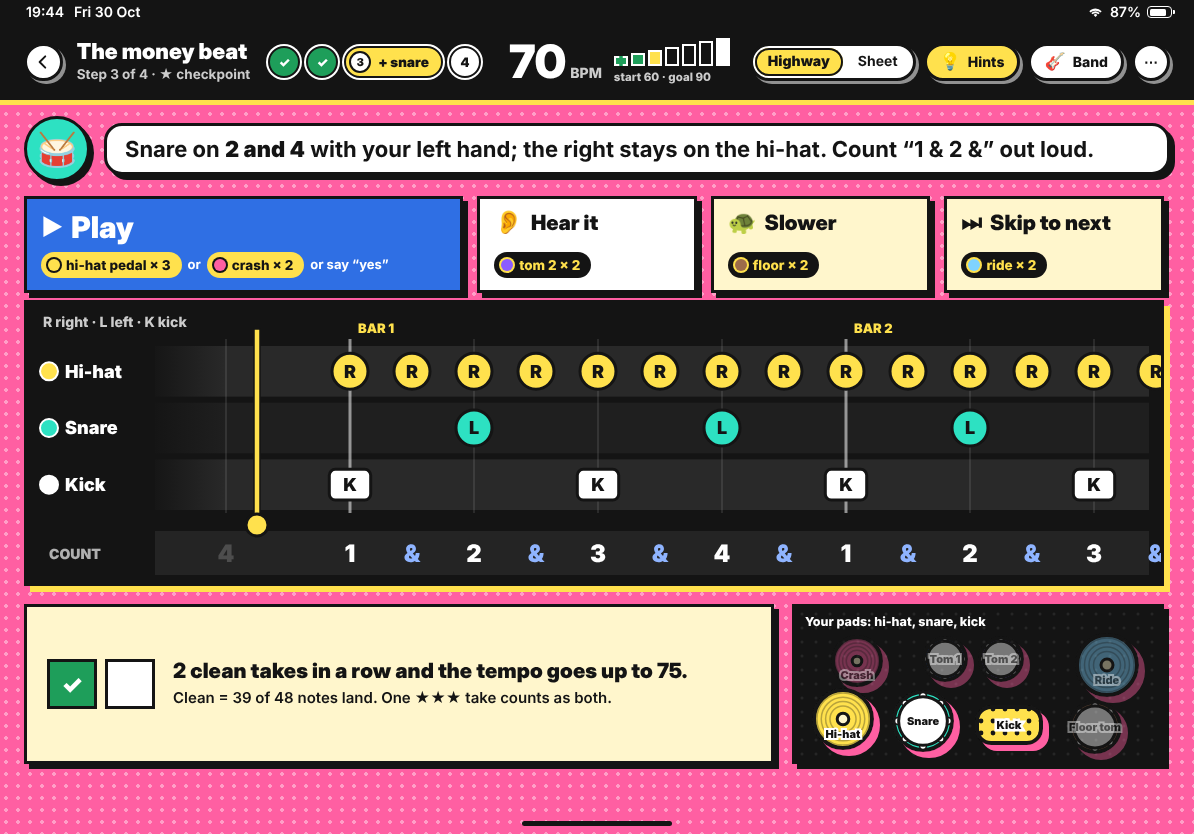
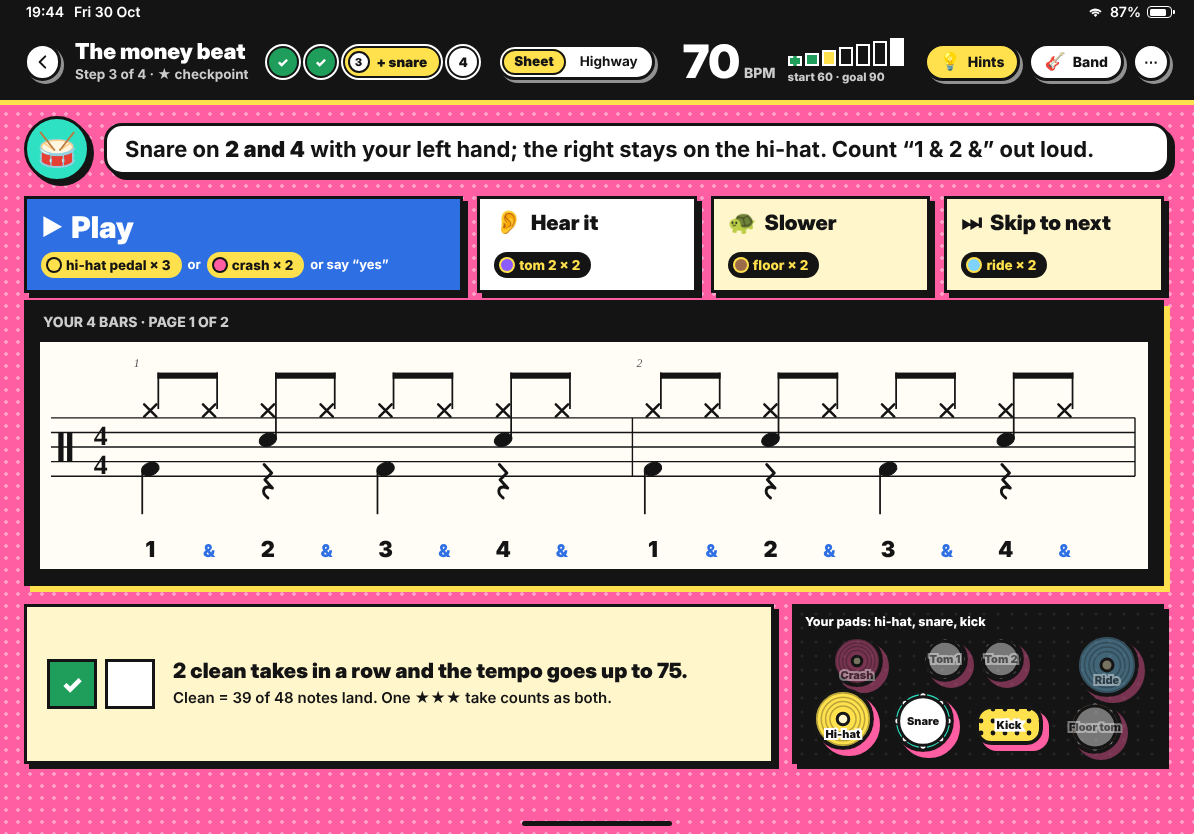
iPad mockups: sheet music in the lesson player (D8)
mock.js gets sheet(): 5-line drum notation for the money beat (hi-hat x-heads above the
staff, snare in the 3rd space, kick in the bottom space, beams per beat, the count under
it, a cursor and results stickers). Sheet | Highway in every lesson header, Sheet by
default: lesson-ready and lesson-countin show the sheet; new frames lesson-take-sheet and
lesson-results-sheet.

Claude-Session: https://claude.ai/code/session_012qCzBwXtPvMyyk6zKAziwn

Changed region(s): [[0.031, 0.3741, 0.9916, 0.6859], [0.031, 0.0312, 0.7747, 0.1247]]

diff --git a/docs/mockups/ipad/mock.js b/docs/mockups/ipad/mock.js
@@ -151,5 +151,91 @@ function fallingHighway({ W, H, pos, px, judged = {}, flash = [], lanes = ['hiha
   return s + `</svg>`;
 }
 
+/**
+ * Drum notation for the money beat on a cream page, the way the app's sheet view draws it (src/notation/SheetMusic.tsx,
+ * VexFlow): a 5-line percussion staff, hands stems up (hi-hat x-heads above the top line, snare in the 3rd space),
+ * the kick stems down in the bottom space with quarter rests, 8ths beamed per beat, the count under each beat.
+ * rows = [[firstBar, bars], ...]; judged = { 'hihat17': ['off', '+48'], 'snare14': ['miss'] } colours played notes
+ * (the rest of the notes before pos count as on it); pos = the cursor in eighths from the first note.
+ */
+function sheet({ W, rowH, gap, rows, judged = null, pos = null, extras = [], x0 = 14, ball = false, stickers = true }) {
+  const TONE = { ok: '#1E9E5A', off: '#E07B00', miss: '#E8423F' };
+  const H = rows.length * rowH + 8;
+  let s = `<svg width="${W}" height="${H}" viewBox="0 0 ${W} ${H}" font-family="${FONT}" style="display:block">`;
+  s += `<rect x="1.5" y="1.5" width="${W - 3}" height="${H - 3}" fill="#FFFDF5" stroke="${INK}" stroke-width="3"/>`;
+  rows.forEach(([first, bars], ri) => {
+    const top = ri * rowH + gap * 5.4, x1 = W - 16, head = ri === 0 ? gap * 5.4 : gap * 2.6;
+    const BW = (x1 - x0 - head) / bars, barX = b => x0 + head + (b - first) * BW;
+    const xOf = t => barX(Math.floor(t / 8)) + gap * 1.4 + (t % 8) * (BW - gap * 2.2) / 8;
+    const y = { hihat: top - gap / 2, snare: top + 1.5 * gap, kick: top + 3.5 * gap };
+    const stemUp = top - gap * 3.1, stemDown = y.kick + gap * 3.1, countY = stemDown + gap * 2.9; // a row is about 15.4 gaps tall
+    const lw = Math.max(1.4, gap * 0.09);
+    // staff, percussion clef, 4/4 on the first row, bar lines, bar numbers
+    for (let i = 0; i < 5; i++) s += `<line x1="${x0}" x2="${x1}" y1="${top + i * gap}" y2="${top + i * gap}" stroke="${INK}" stroke-width="${lw}"/>`;
+    s += `<rect x="${x0 + gap * .5}" y="${top + gap}" width="${gap * .36}" height="${gap * 2}" fill="${INK}"/><rect x="${x0 + gap * 1.1}" y="${top + gap}" width="${gap * .36}" height="${gap * 2}" fill="${INK}"/>`;
+    if (ri === 0) for (const k of [2, 4]) s += `<text x="${x0 + gap * 3.4}" y="${top + k * gap - gap * .12}" text-anchor="middle" font-family="Georgia,serif" font-weight="900" font-size="${gap * 1.9}" fill="${INK}">4</text>`;
+    for (let b = first; b < first + bars; b++) {
+      const end = barX(b + 1), last = b === 3;
+      s += `<line x1="${end - (last ? gap * .25 : 0)}" x2="${end - (last ? gap * .25 : 0)}" y1="${top}" y2="${top + 4 * gap}" stroke="${INK}" stroke-width="${last ? gap * .4 : lw}"/>`;
+      if (last) s += `<line x1="${end - gap * .75}" x2="${end - gap * .75}" y1="${top}" y2="${top + 4 * gap}" stroke="${INK}" stroke-width="${lw}"/>`;
+      s += `<text x="${barX(b) + 4}" y="${top - gap * 3.5}" font-family="Georgia,serif" font-style="italic" font-size="${gap * .8}" fill="#555">${b + 1}</text>`;
+    }
+    // the cursor goes under the notes
+    if (pos !== null && pos >= first * 8 && pos < (first + bars) * 8) s += `<rect x="${xOf(pos) - gap * 1.2}" y="${stemUp - gap * .6}" width="${gap * 2.4}" height="${countY - stemUp + gap * .9}" rx="${gap * .4}" fill="#2DE1C255"/>`;
+    const tone = (lane, t) => {
+      if (!judged || (pos !== null && t > pos + .01)) return null;
+      const m = judged[lane + t];
+      return m ? m : ['ok'];
+    };
+    const headSvg = (lane, x, t) => {
+      const m = tone(lane, t), c = m ? TONE[m[0]] : INK, miss = m && m[0] === 'miss', yy = y[lane];
+      if (lane === 'hihat') { const r = gap * .42; return `<path d="M${x - r} ${yy - r}L${x + r} ${yy + r}M${x - r} ${yy + r}L${x + r} ${yy - r}" stroke="${c}" stroke-width="${gap * .17}" stroke-linecap="round"${miss ? ' stroke-dasharray="3 2"' : ''}/>`; }
+      return `<ellipse cx="${x}" cy="${yy}" rx="${gap * .62}" ry="${gap * .44}" transform="rotate(-20 ${x} ${yy})" fill="${miss ? '#FFFDF5' : c}" stroke="${c}" stroke-width="${miss ? 2.5 : 1}"${miss ? ' stroke-dasharray="3 2"' : ''}/>`;
+    };
+    const sticker = (x, yy, m) => {
+      const txt = m[0] === 'miss' ? 'MISS!' : m[1], w = txt.length * gap * .62 + gap * .8;
+      return `<g transform="rotate(-6 ${x} ${yy})"><rect x="${x - w / 2}" y="${yy - gap * .62}" width="${w}" height="${gap * 1.24}" fill="${TONE[m[0]]}" stroke="${INK}" stroke-width="2"/><text x="${x}" y="${yy + gap * .32}" text-anchor="middle" font-size="${gap * .82}" font-weight="900" fill="#fff">${txt}</text></g>`;
+    };
+    for (let b = first; b < first + bars; b++) {
+      // hands: hi-hat on every 8th, snare on 2 and 4; stems up, beamed in pairs (one beam per beat)
+      for (let e = 0; e < 8; e++) {
+        const t = b * 8 + e, x = xOf(t), sx = x + gap * .55, low = e === 2 || e === 6 ? y.snare : y.hihat;
+        s += `<line x1="${sx}" x2="${sx}" y1="${low - gap * .1}" y2="${stemUp}" stroke="${INK}" stroke-width="${gap * .12}"/>`;
+        s += headSvg('hihat', x, t);
+        if (e === 2 || e === 6) s += headSvg('snare', x, t);
+        if (e % 2 === 0) s += `<rect x="${sx - gap * .06}" y="${stemUp}" width="${xOf(t + 1) - x + gap * .12}" height="${gap * .42}" fill="${INK}"/>`;
+      }
+      // feet: kick on 1 and 3 (quarter notes, stems down), quarter rests on 2 and 4
+      for (const e of [0, 2, 4, 6]) {
+        const t = b * 8 + e, x = xOf(t);
+        if (e === 0 || e === 4) {
+          s += `<line x1="${x - gap * .55}" x2="${x - gap * .55}" y1="${y.kick + gap * .1}" y2="${stemDown}" stroke="${INK}" stroke-width="${gap * .12}"/>` + headSvg('kick', x, t);
+        } else {
+          const ry = top + 3.2 * gap, k = gap * .26;
+          s += `<path d="M${x - k} ${ry}l${2 * k} ${2.2 * k}l${-1.8 * k} ${1.8 * k}l${2 * k} ${2.2 * k}c${-2.4 * k} ${-1 * k} ${-3.2 * k} ${1 * k} ${-1.2 * k} ${2.6 * k}" fill="none" stroke="${INK}" stroke-width="${gap * .2}" stroke-linejoin="round" stroke-linecap="round"/>`;
+        }
+      }
+      // results stickers: hands above the beams, the kick below its stem
+      if (stickers) for (const lane of ['hihat', 'snare', 'kick']) for (let e = 0; e < 8; e++) {
+        const t = b * 8 + e, m = tone(lane, t);
+        if (!m || m[0] === 'ok') continue;
+        s += sticker(xOf(t), lane === 'kick' ? stemDown + gap * .7 : stemUp - gap * 1.2, m);
+      }
+      // the count: numbers you hit and say, "&"s in blue
+      for (let e = 0; e < 8; e++) {
+        const t = b * 8 + e, num = e % 2 === 0, cur = pos !== null && Math.abs(t - pos) < .01;
+        if (cur) s += `<circle cx="${xOf(t)}" cy="${countY - gap * .55}" r="${gap * 1.05}" fill="${POP}" stroke="${INK}" stroke-width="2.5"/>`;
+        s += `<text x="${xOf(t)}" y="${countY}" text-anchor="middle" font-size="${num ? gap * 1.5 : gap * 1.2}" font-weight="900" fill="${num ? INK : '#2F6FE4'}" opacity="${pos !== null && t < pos - .01 ? .4 : 1}">${num ? e / 2 + 1 : '&amp;'}</text>`;
+      }
+    }
+    for (const ex of extras) if (ex.t >= first * 8 && ex.t < (first + bars) * 8) {
+      const ex0 = xOf(Math.floor(ex.t)) + (ex.t % 1) * (BW - gap * 2.2) / 8;
+      s += `<text x="${ex0}" y="${y[ex.lane] + gap * .5}" text-anchor="middle" font-size="${gap * 1.5}" font-weight="900" fill="${TONE.miss}">✕</text>`;
+    }
+    if (ball && pos !== null && pos >= first * 8 && pos < (first + bars) * 8) s += `<circle cx="${xOf(pos)}" cy="${countY - gap * 2.3}" r="${gap * .55}" fill="${POP}" stroke="${INK}" stroke-width="2.5"/>`;
+  });
+  return s + `</svg>`;
+}
+
 // The pages call these from inline scripts.
-Object.assign(window, { kit, highway, fallingHighway });
+Object.assign(window, { kit, highway, fallingHighway, sheet });

diff --git a/docs/mockups/ipad/lesson-take.html b/docs/mockups/ipad/lesson-take.html
@@ -31,10 +31,13 @@
   .panel { position: absolute; left: 24px; right: 30px; top: 190px; height: 396px; background: var(--night); border: 3px solid var(--line); box-shadow: 6px 6px 0 var(--pop); overflow: hidden; }
   #ready:target ~ .panel { top: 300px; height: 286px; }
   .panel svg { display: block; }
+  .paper { position: absolute; left: 10px; right: 10px; top: 36px; }
+  .viewSeg { height: 36px; margin-left: 4px; }
+  .viewSeg span { font-size: 13.5px; padding: 0 12px; }
   .barNow { position: absolute; left: 16px; top: 10px; font: 800 14px var(--sf); color: #ccc; }
   .barNow b { color: #fff; font: 900 22px var(--display); }
 
-  .countBig { position: absolute; left: 618px; top: 262px; transform: translateX(-50%); z-index: 3; flex-direction: column; align-items: center; gap: 8px; }
+  .countBig { position: absolute; left: 124px; top: 268px; transform: translateX(-50%); z-index: 3; flex-direction: column; align-items: center; gap: 8px; }
   .countBig .n { width: 150px; height: 150px; border-radius: 50%; background: var(--pop); border: 4px solid var(--line); box-shadow: 6px 6px 0 var(--line); display: grid; place-items: center; font: 900 96px var(--display); }
   .countBig p { font: 900 16px var(--display); background: var(--panel); border: 3px solid var(--line); padding: 3px 12px; }
 
@@ -55,20 +58,20 @@
 </head>
 <body>
 <div class="ipad">
-  <i id="ready"></i><i id="countin"></i><i id="falling"></i>
+  <i id="ready"></i><i id="countin"></i><i id="falling"></i><i id="sheet"></i>
   <div class="status"><span>19:44</span><span class="date">Fri 30 Oct</span><span class="sp"></span><span class="ic i-wifi"></span><span>87%</span><span class="batt"><i style="width:84%"></i></span></div>
 
   <header class="top">
     <span class="btn round sm v-ready" style="width:40px"><span class="ic i-chevl"></span></span>
     <div class="title"><b>The money beat</b><span>Step 3 of 4 · ★ checkpoint</span></div>
     <div class="steps"><i class="done">✓</i><i class="done">✓</i><i class="cur"><em>3</em>+ snare</i><i>4</i></div>
+    <span class="seg viewSeg"><span data-v="sheet">Sheet</span><span data-v="highway">Highway</span></span>
     <span class="sp"></span>
     <div class="tempo">
       <div class="big num">70<small>BPM</small></div>
       <div class="ladder"><div class="rungs"><i class="start done" style="height:10px"></i><i class="done" style="height:13px"></i><i class="at" style="height:16px"></i><i style="height:19px"></i><i style="height:22px"></i><i style="height:25px"></i><i class="goal" style="height:28px"></i></div><span>start 60 · goal 90</span></div>
     </div>
     <div class="v-ready" style="gap:8px;align-items:center;margin-left:6px">
-      <span class="seg"><span class="on">Highway</span><span>Sheet</span></span>
       <span class="btn sm pop"><span class="em">💡</span>Hints</span>
       <span class="btn sm"><span class="em">🎸</span>Band</span>
       <span class="btn round sm" style="width:38px">⋯</span>
@@ -94,8 +97,7 @@
 
   <section class="panel" id="hwPanel">
     <div id="hw"></div>
-    <div class="barNow v-take"><b>Bar 3</b> of 4</div>
-    <div class="barNow v-ready">R right · L left · K kick</div>
+    <div class="barNow" id="barNow"></div>
   </section>
 
   <div class="countBig v-countin"><div class="n">3</div><p>SAY IT WITH THE CLICK</p></div>
@@ -121,7 +123,19 @@
 const mode = location.hash.slice(1) || 'take';
 const panelW = 1134, panelH = mode === 'ready' ? 280 : 390; // :target may not apply yet when this runs
 const judged = { hihat17: 'off', kick16: 'off' };
-document.getElementById('hw').innerHTML = mode === 'falling'
+// Sheet music is the default view (D8): before the take, the count-in and #sheet; the highway is the alternative.
+const onSheet = ['ready', 'countin', 'sheet'].includes(mode);
+document.querySelectorAll('.viewSeg span').forEach(el => el.classList.toggle('on', el.dataset.v === (onSheet ? 'sheet' : 'highway')));
+document.getElementById('barNow').innerHTML = { ready: 'YOUR 4 BARS · PAGE 1 OF 2', countin: 'COUNT-IN · PAGE 1 OF 2' }[mode] ?? '<b>Bar 3</b> of 4';
+if (onSheet) {
+  const sh = {
+    ready: { gap: 14.6, rows: [[0, 2]], pos: null, left: 10 },
+    countin: { gap: 21.6, rows: [[0, 2]], pos: null, left: 214 },
+    sheet: { gap: 21.6, rows: [[2, 2]], pos: 20, judged: { hihat17: ['off', '+48'], kick16: ['off', '+48'] }, ball: true, left: 10 },
+  }[mode];
+  const w = panelW - sh.left - 10, rowH = Math.round(sh.gap * 15.4);
+  document.getElementById('hw').innerHTML = `<div class="paper" style="left:${sh.left}px">${sheet({ W: w, rowH, gap: sh.gap, rows: sh.rows, pos: sh.pos, judged: sh.judged ?? null, ball: sh.ball })}</div>`;
+} else document.getElementById('hw').innerHTML = mode === 'falling'
   ? fallingHighway({ W: panelW, H: panelH, pos: 20, px: 46, judged, flash: ['hihat', 'kick'] })
   : highway({ W: panelW, H: panelH, ...{
       take: { pos: 20, px: 62, nowX: 470, judged, flash: ['hihat', 'kick'] },
@@ -130,7 +144,7 @@ document.getElementById('hw').innerHTML = mode === 'falling'
     }[mode === 'falling' ? 'take' : mode] });
 
 // The kit from the throne, in the web app's drawing style; the pads that just landed glow and pop a comic word.
-const hit = mode === 'take' || mode === 'falling';
+const hit = mode === 'take' || mode === 'falling' || mode === 'sheet';
 const mine = ['hihat', 'snare', 'kick'];
 const P = [
   [{ id: 'crash', x: 62, y: 54, r: 24 }], [{ id: 'hihat', x: 48, y: 112, r: 29 }], [{ id: 'tom1', x: 150, y: 52, r: 21 }], [{ id: 'tom2', x: 206, y: 52, r: 21 }],

diff --git a/docs/mockups/ipad/lesson-results.html b/docs/mockups/ipad/lesson-results.html
@@ -7,7 +7,9 @@
 <link rel="stylesheet" href="ipad.css">
 <script src="mock.js"></script>
 <style>
-  .tempo .up { font: 900 14px var(--display); color: var(--line); background: #4BE08A; border: 2px solid #fff; border-radius: 999px; padding: 3px 10px; }
+  .viewSeg { height: 36px; } .viewSeg span { font-size: 13.5px; padding: 0 11px; }
+  .top .ladder { display: none; } /* the next tempo says it; room for Sheet / Highway and Share take */
+  .tempo .up { white-space: nowrap; font: 900 14px var(--display); color: var(--line); background: #4BE08A; border: 2px solid #fff; border-radius: 999px; padding: 3px 10px; }
   .verdict { position: absolute; left: 24px; right: 30px; top: 116px; }
   .verdict .bubble { flex: 1; display: flex; align-items: center; gap: 14px; }
   .verdict p { font-size: 22px; }
@@ -56,13 +58,14 @@
 </head>
 <body>
 <div class="ipad">
-  <i id="share"></i>
+  <i id="share"></i><i id="sheet"></i>
   <div class="status"><span>19:45</span><span class="date">Fri 30 Oct</span><span class="sp"></span><span class="ic i-wifi"></span><span>87%</span><span class="batt"><i style="width:84%"></i></span></div>
 
   <header class="top">
     <span class="btn round sm" style="width:40px"><span class="ic i-chevl"></span></span>
     <div class="title"><b>The money beat</b><span>Step 3 of 4 · ★ checkpoint</span></div>
     <div class="steps"><i class="done">✓</i><i class="done">✓</i><i class="cur"><em>3</em>+ snare</i><i>4</i></div>
+    <span class="seg viewSeg"><span data-v="sheet">Sheet</span><span data-v="highway">Highway</span></span>
     <span class="sp"></span>
     <div class="tempo">
       <div class="big num">70<small>BPM</small></div><span class="up">→ 75 next</span>
@@ -167,8 +170,24 @@ function timing(y0, W) {
   s += `<text x="${x(-100)}" y="${cy + 40}" font-size="12" font-weight="900" fill="#4A4A4A">← EARLY</text><text x="${mid}" y="${cy + 40}" text-anchor="middle" font-size="12" font-weight="900">THE CLICK</text><text x="${x(100)}" y="${cy + 40}" text-anchor="end" font-size="12" font-weight="900" fill="#4A4A4A">LATE →</text>`;
   return s;
 }
-const W = 756;
-document.getElementById('notes').innerHTML = `<svg width="${W}" height="418" viewBox="0 0 ${W} 418" font-family='${FONT}' style="display:block">${row(0, 0, W)}${row(2, 150, W)}${timing(306, W)}</svg>`;
+/** A slimmer timing line for under the sheet. */
+function timingSlim(W, h) {
+  const offs = [12, 18, 22, 9, 31, 25, 14, 52, 19, 27, 8, 16, 21, 33, 11, 24, 15, 20, 28, 6, 17, 23, 13, 30, -62, 19, 26, -55, 14, 22, 18, 25, 10, 29, 16, 21, 12, 27, 35, 19, 24, 15, 20, 11, 26, 18, -4];
+  const mid = W / 2 + 90, sc = (W / 2 - 150) / 100, x = ms => mid + ms * sc, cy = h / 2;
+  let s = `<svg width="${W}" height="${h}" viewBox="0 0 ${W} ${h}" font-family='${FONT}' style="display:block;margin-top:6px"><rect x="1.5" y="1.5" width="${W - 3}" height="${h - 3}" fill="#FFFDF6" stroke="${INK}" stroke-width="3"/>`;
+  s += `<text x="12" y="${cy - 3}" font-size="13" font-weight="900" fill="${INK}">WHERE YOUR</text><text x="12" y="${cy + 13}" font-size="13" font-weight="900" fill="${INK}">HITS LANDED</text>`;
+  s += `<rect x="${x(-40)}" y="${cy - 17}" width="${x(40) - x(-40)}" height="34" fill="#E3F5EA" stroke="#1E9E5A" stroke-width="2"/>`;
+  s += `<line x1="${x(-100)}" x2="${x(100)}" y1="${cy}" y2="${cy}" stroke="${INK}" stroke-width="3"/><line x1="${mid}" x2="${mid}" y1="${cy - 20}" y2="${cy + 20}" stroke="${INK}" stroke-width="3"/>`;
+  offs.forEach((ms, k) => { s += `<circle cx="${x(ms)}" cy="${cy + ((k % 3) - 1) * 8}" r="5.5" fill="${Math.abs(ms) <= 40 ? '#1E9E5A' : '#FF9F1C'}" stroke="${INK}" stroke-width="1.5"/>`; });
+  s += `<text x="${x(-100) - 8}" y="${cy + 5}" text-anchor="end" font-size="11" font-weight="900" fill="#4A4A4A">EARLY</text><text x="${x(100) + 8}" y="${cy + 5}" font-size="11" font-weight="900" fill="#4A4A4A">LATE</text>`;
+  return s + `</svg>`;
+}
+const W = 756, onSheet = location.hash === '#sheet';
+document.querySelectorAll('.viewSeg span').forEach(el => el.classList.toggle('on', el.dataset.v === (onSheet ? 'sheet' : 'highway')));
+document.getElementById('notes').innerHTML = onSheet
+  // results on the sheet-music notes: the whole take, two bars a row, each note in how it went
+  ? sheet({ W, rowH: 166, gap: 10.8, rows: [[0, 2], [2, 2]], judged: { kick16: ['off', '−62'], kick20: ['off', '−55'], hihat9: ['off', '+52'], hihat31: ['miss'], snare14: ['miss'] }, extras: [{ lane: 'snare', t: 18.5 }] }) + timingSlim(W, 58)
+  : `<svg width="${W}" height="418" viewBox="0 0 ${W} 418" font-family='${FONT}' style="display:block">${row(0, 0, W)}${row(2, 150, W)}${timing(306, W)}</svg>`;
 </script>
 </body>
 </html>
